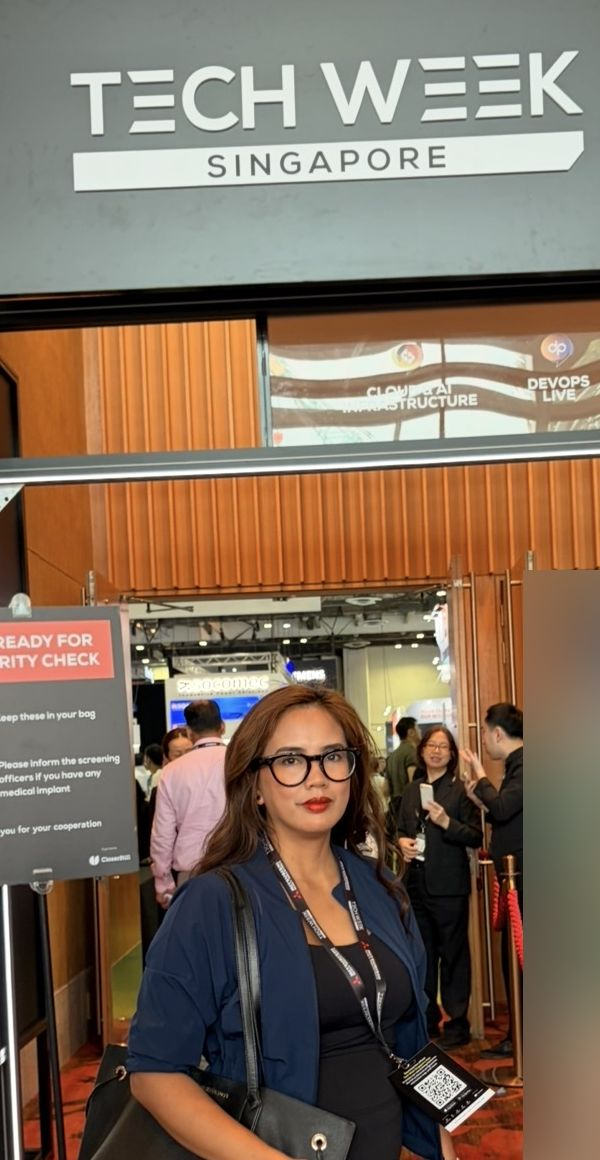
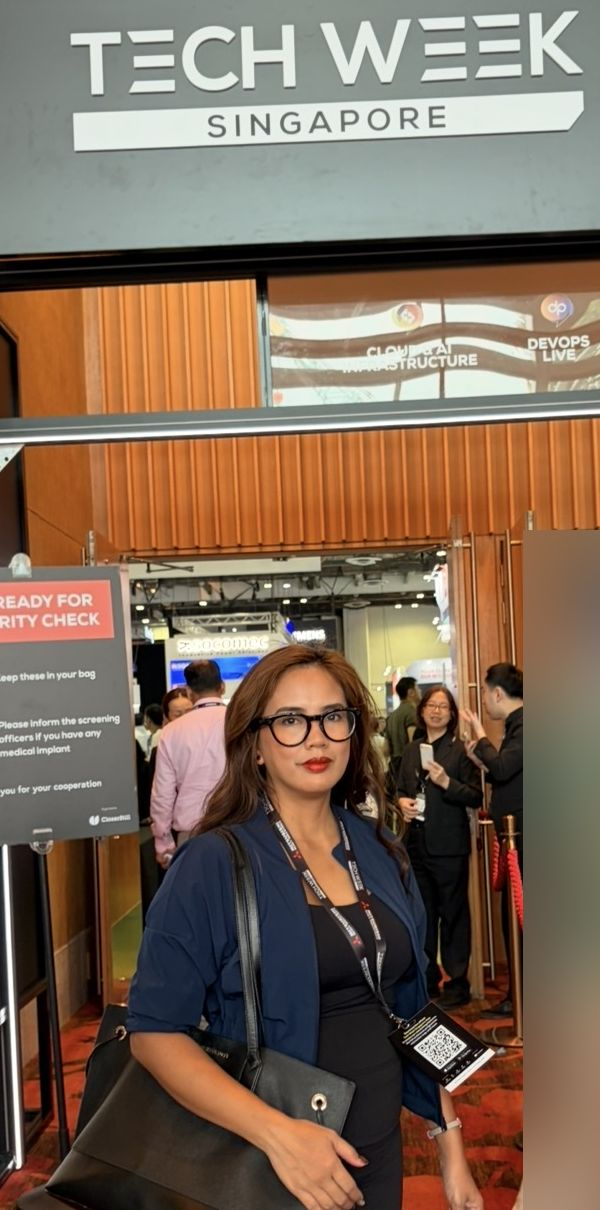
Show Singapore photo waist-up with face visible on phones (#7)
* Add learning journey: Frankfurt, Zurich and Paris AI events

Claude-Session: https://claude.ai/code/session_01WTiPnFn8tAnycRd44pAw24

* Feature AI Week Frankfurt and correct Zurich event details

Claude-Session: https://claude.ai/code/session_01WTiPnFn8tAnycRd44pAw24

* Feature Hack the Feed Paris and Chef Radar Paris

Claude-Session: https://claude.ai/code/session_01WTiPnFn8tAnycRd44pAw24

* Add Dubai AI Festival 2026 to the learning journey

Claude-Session: https://claude.ai/code/session_01WTiPnFn8tAnycRd44pAw24

* Add Earlier in 2026 section to the learning journey

Claude-Session: https://claude.ai/code/session_01WTiPnFn8tAnycRd44pAw24

* Add Taipei robotics sessions to Intelligent Asia card

Claude-Session: https://claude.ai/code/session_01WTiPnFn8tAnycRd44pAw24

* Use Tech Week Singapore photo on the Singapore card

Claude-Session: https://claude.ai/code/session_01WTiPnFn8tAnycRd44pAw24

* Show Singapore photo waist-up with face visible on phones

Claude-Session: https://claude.ai/code/session_01WTiPnFn8tAnycRd44pAw24

* Show Singapore photo waist-up with face visible on phones

Claude-Session: https://claude.ai/code/session_01WTiPnFn8tAnycRd44pAw24

---------

diff --git a/index.html b/index.html
@@ -132,7 +132,7 @@ footer a{text-decoration:none;color:var(--muted)}footer a:hover{color:var(--ocea
 @media (max-width:900px){.feature{grid-template-columns:1fr}}
 .sub{font-size:22px;margin:56px 0 18px}
 .trip.wide{flex-direction:row}.trip.wide img{width:46%;height:auto;aspect-ratio:auto;align-self:center;margin-left:18px;border-radius:10px}
-@media (max-width:600px){.trip.wide{flex-direction:column}.trip.wide img{width:100%;margin:0;border-radius:0;aspect-ratio:3/4;object-fit:cover;object-position:50% 0}}
+@media (max-width:600px){.trip.wide{flex-direction:column}.trip.wide img{width:100%;height:auto;margin:0;border-radius:0}}
 .evlist{margin:6px 0 0 16px;font-size:14px;color:var(--muted)}.evlist li{margin-bottom:5px}.evlist b{color:var(--ink);font-weight:600}
 @media (max-width:600px){.trip[style]{grid-column:auto!important}}
 </style>
